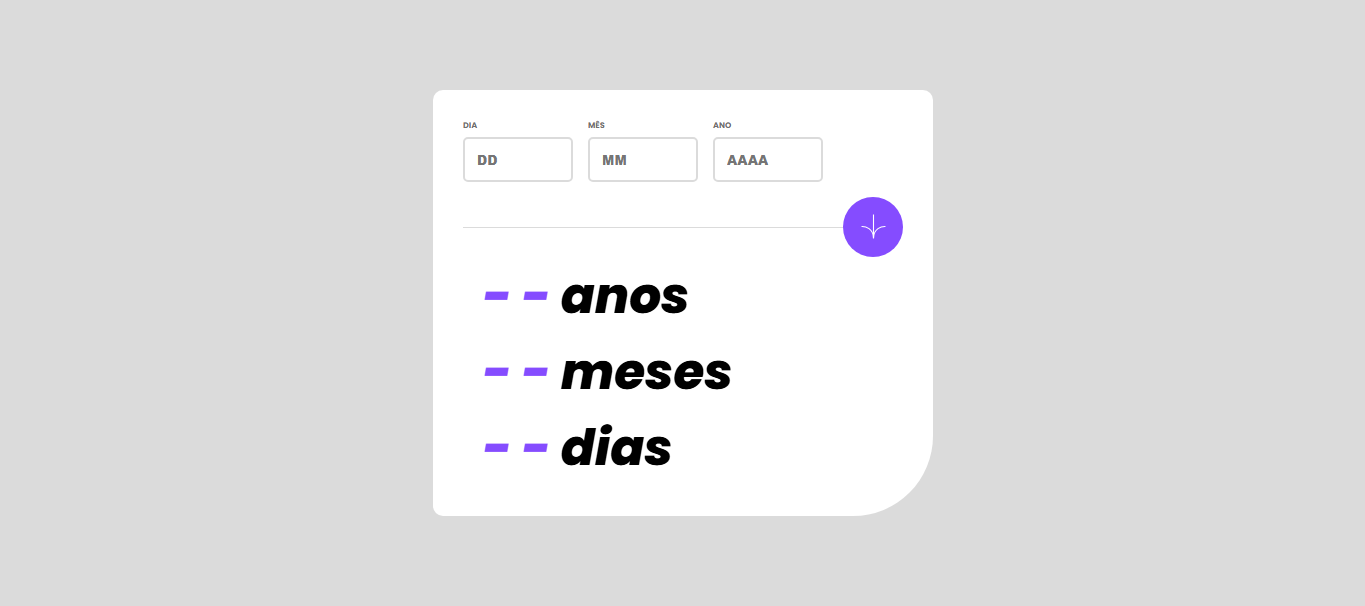
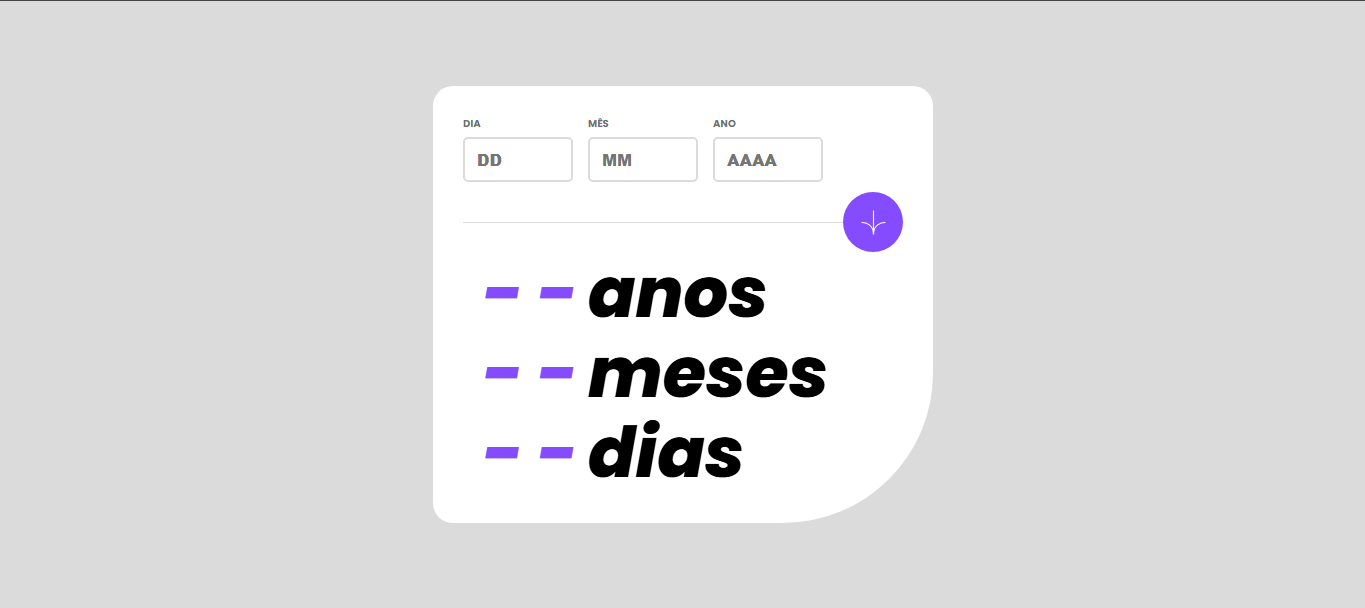
Alterações nos estilos

diff --git a/src/css/responsivo.css b/src/css/responsivo.css
@@ -1,27 +1,72 @@
 @media (max-width: 600px) {
-    body{
+    body {
         padding: 20px;
     }
 
-    .container{
+    .container {
         width: 350px;
+        border-end-end-radius: 100px;
     }
 
-    .container .informacoes{
+    .container .informacoes {
         display: flex;
         justify-content: center;
+        padding-bottom: 30px;
     }
 
-    .container .informacoes .campos .campo .input{
+    .container .informacoes .campos .campo .input {
         width: 95px;
     }
 
-    .container .informacoes .btn{
+    .container .informacoes .btn {
         display: flex;
         justify-content: center;
     }
 
-    .container .resultados .resultado{
+    .container .resultados {
+        padding-top: 40px;
+    }
+
+    .container .resultados .resultado {
+        height: 50px;
         font-size: 40px;
+    }
+}
+
+@media (min-width: 1550px) {
+    .container {
+        width: 700px;
+        padding: 50px;
+        border-radius: 20px 20px 200px 20px;
+    }
+
+    .container .informacoes {
+        padding-bottom: 30px;
+    }
+
+    .container .informacoes .campos {
+        gap: 20px;
+    }
+
+    .container .informacoes .campos .campo .label {
+        font-size: 12px;
+    }
+
+    .container .informacoes .campos .campo .input {
+        width: 140px;
+        height: 60px;
+        padding-left: 18px;
+        font-size: 22px;
+    }
+
+    .container .informacoes .btn #botao {
+        width: 80px;
+        height: 80px;
+        bottom: -40px;
+    }
+
+    .container .resultados .resultado {
+        font-size: 80px;
+        height: 100px;
     }
 }

diff --git a/src/css/estilos.css b/src/css/estilos.css
@@ -10,7 +10,7 @@ body{
 .container{
     width: 500px;
     padding: 30px;
-    border-radius:  10px 10px 80px 10px;
+    border-radius: 20px 20px 150px 20px;
     background-color: var(--cor-branca);
 }
 
@@ -18,7 +18,7 @@ body{
     display: flex;
     flex-wrap: wrap;
     gap: 20px;
-    padding-bottom: 25px;
+    padding-bottom: 20px;
     border-bottom: 1px solid var(--cor-cinza-claro);
     position: relative;
 }
@@ -35,7 +35,7 @@ body{
 }
 
 .container .informacoes .campos .campo .label{
-    font-size: 8px;
+    font-size: 10px;
 }
 
 .container .informacoes .campos .campo .input{
@@ -44,7 +44,7 @@ body{
     padding: 12px;
     border-radius: 5px;
     font-weight: 800;
-    
+    font-size: 16px;
 }
 
 .container .informacoes .campos .campo .input:hover{
@@ -89,7 +89,9 @@ body{
 .container .resultados .resultado{
     display: flex;
     gap: 10px;
-    font-size: 50px;
+    font-size: 70px;
+    align-items: center;
+    height: 80px;
 }
 
 .container .resultados .resultado .cor-numero{

diff --git a/index.html b/index.html
@@ -6,6 +6,7 @@
     <meta name="viewport" content="width=device-width, initial-scale=1.0">
     <title>Calculador de Idade</title>
 
+    <link rel="icon" type="image/png" sizes="32x32" href="src/images/favicon-32x32.png">
     <link rel="preconnect" href="https://fonts.googleapis.com">
     <link rel="preconnect" href="https://fonts.gstatic.com" crossorigin>
     <link href="https://fonts.googleapis.com/css2?family=Poppins:ital,wght@0,700;1,400;1,800&display=swap" rel="stylesheet">
